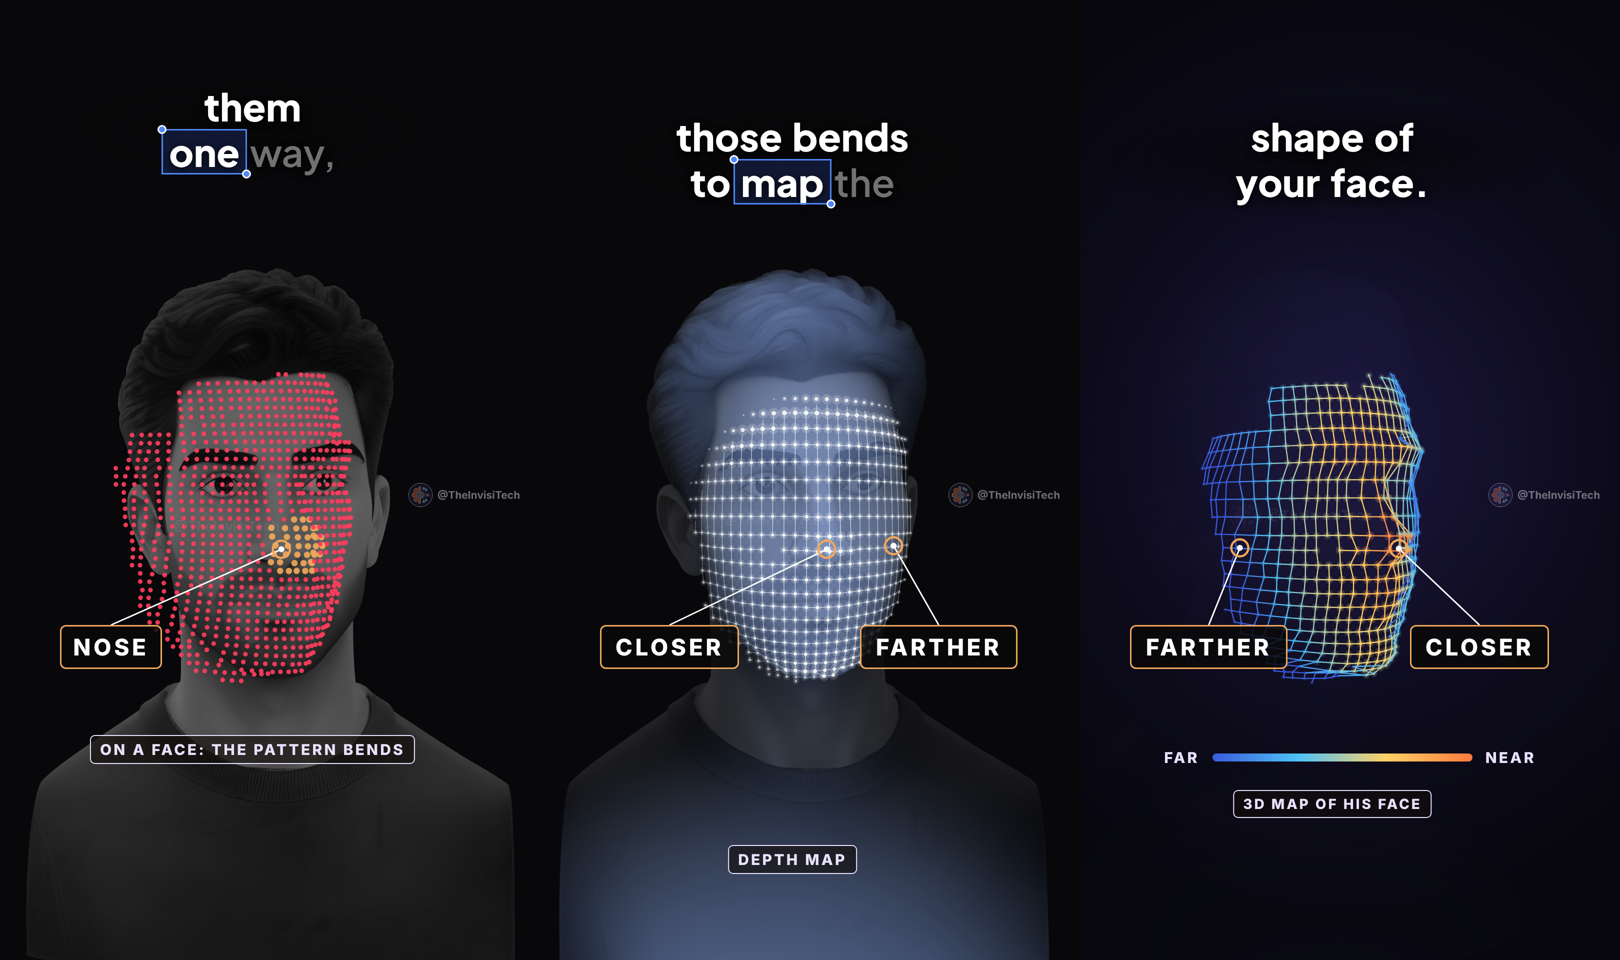
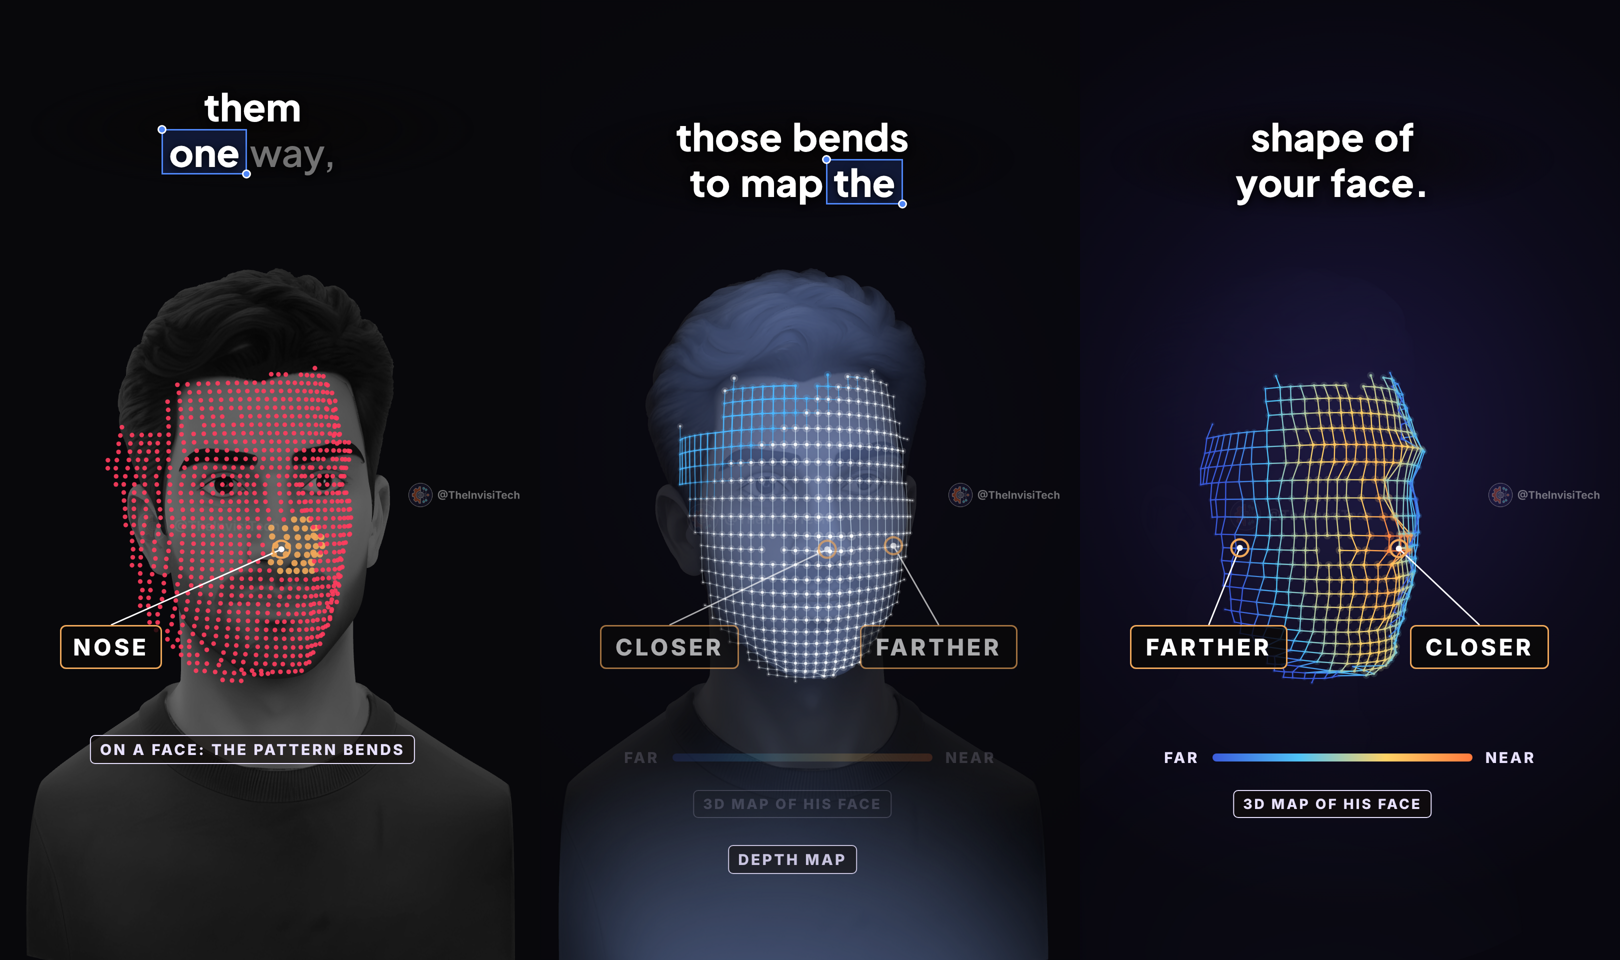
Mirror Short: web and dot grid include the whole forehead to the hairline
Claude-Session: https://claude.ai/code/session_01GXcKc5WnFrVWBsHLe8YpAy

diff --git a/face-id/mirror-short/src/scenes/Orbit3D.tsx b/face-id/mirror-short/src/scenes/Orbit3D.tsx
@@ -87,15 +87,15 @@ const useHead = (): Head | null => {
       const FCX = nose.x - 40, FCY = nose.y + 16;                                          // middle of his face (the head is turned a little)
       const face = (x: number, y: number): number | null => {
         // squarer at the top so the whole forehead is inside, up to the hairline (the hair itself is excluded below)
-        const dx = Math.abs(x - FCX) / 156, dy = Math.abs(y - FCY) / (y > FCY ? 262 : 200), e = y > FCY ? 3.2 : 2; if (Math.pow(dx, e) + Math.pow(dy, e) > 1) return null;
+        const dx = Math.abs(x - FCX) / (y > FCY ? 168 : 156), dy = Math.abs(y - FCY) / (y > FCY ? 262 : 200), e = y > FCY ? 3.2 : 2; if (Math.pow(dx, e) + Math.pow(dy, e) > 1) return null;
         let best: number[] | null = null;
         for (let a = -1; a <= 1 && !best; a++) for (let b = -1; b <= 1 && !best; b++) best = zmap.get(`${Math.round(x / CELL) + a},${Math.round(y / CELL) + b}`) ?? null;
-        if (!best || (y - nose.y > 150 && best[1] < 230)) return null;                      // no surface here, or hair above the forehead
+        if (!best || (y - nose.y > 150 && best[1] < 165)) return null;                      // no surface here, or hair above the forehead
         return best[0];
       };
       const lpts: number[][] = [], runs: number[][] = [], idx = new Map<string, number>(), US: number[] = [], STEP = 0.092;
       for (let u = -1.38; u <= 1.381; u += STEP) US.push(u);
-      const at = (u: number, v: number) => [FCX + 160 * Math.sin(u) * (0.74 + 0.26 * Math.cos(v)), FCY + (v > 0 ? 262 : 208) * Math.sin(v) - (v > 0 ? 30 : 52) * (1 - Math.cos(u)) * Math.sin(v)];
+      const at = (u: number, v: number) => [FCX + 160 * Math.sin(u) * (v > 0 ? 0.9 + 0.1 * Math.cos(v) : 0.74 + 0.26 * Math.cos(v)), FCY + (v > 0 ? 262 : 208) * Math.sin(v) - (v > 0 ? 30 : 52) * (1 - Math.cos(u)) * Math.sin(v)];
       US.forEach((v, a) => US.forEach((u, b) => { const [x, y] = at(u, v), z = face(x, y); if (z !== null) { idx.set(`${a},${b}`, lpts.length); lpts.push([x, y, z]); } }));
       const collect = (key: (i: number, j: number) => string) => US.forEach((_, i) => { let cur: number[] = []; US.forEach((_, j) => { const k = idx.get(key(i, j)); if (k !== undefined) cur.push(k); else { if (cur.length > 1) runs.push(cur); cur = []; } }); if (cur.length > 1) runs.push(cur); });
       collect((i, j) => `${i},${j}`); collect((i, j) => `${j},${i}`);
